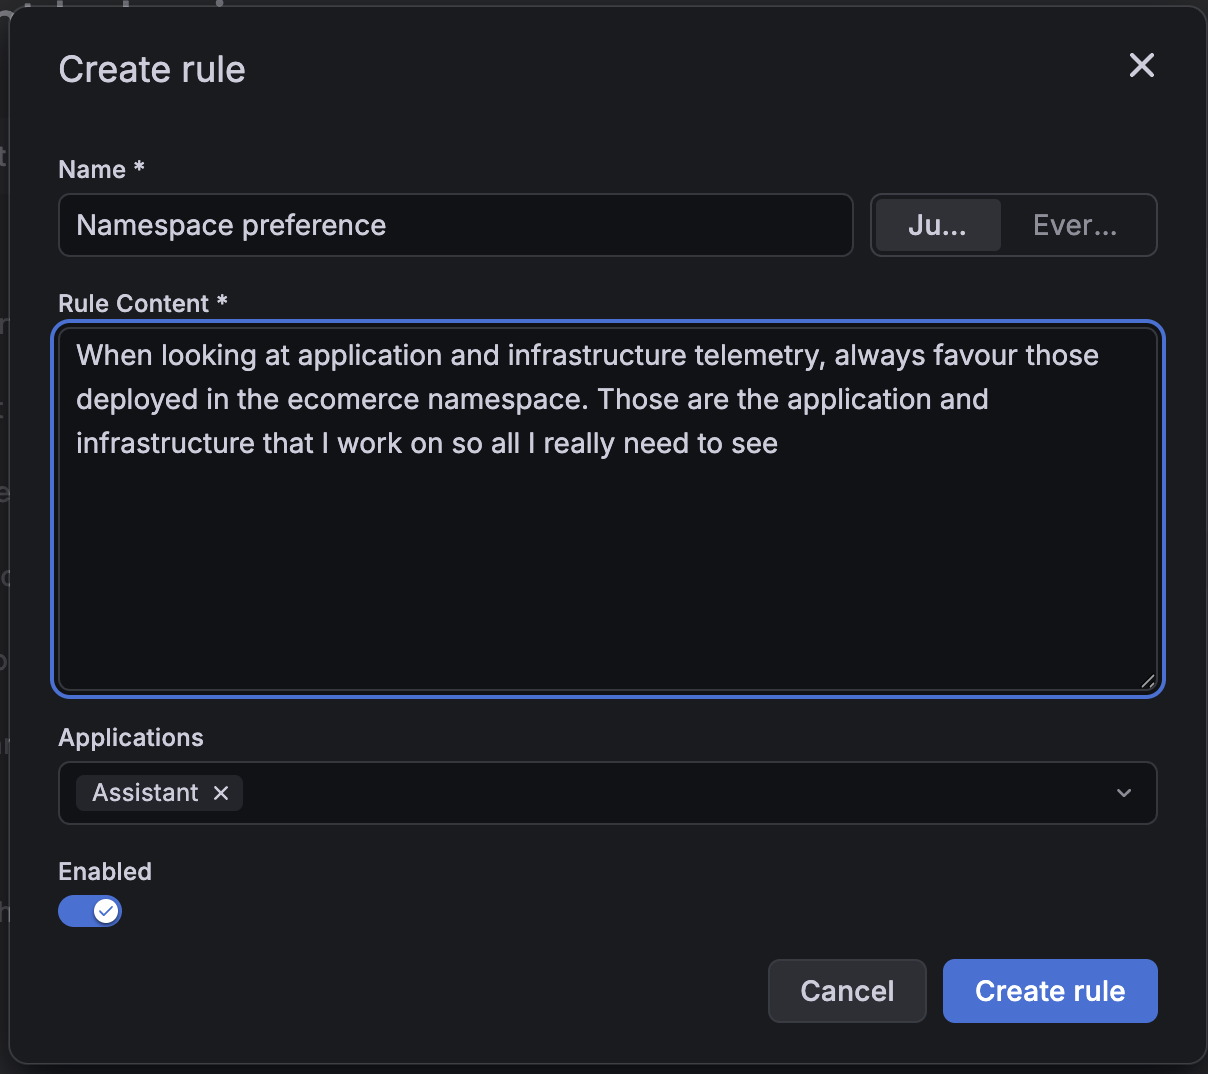
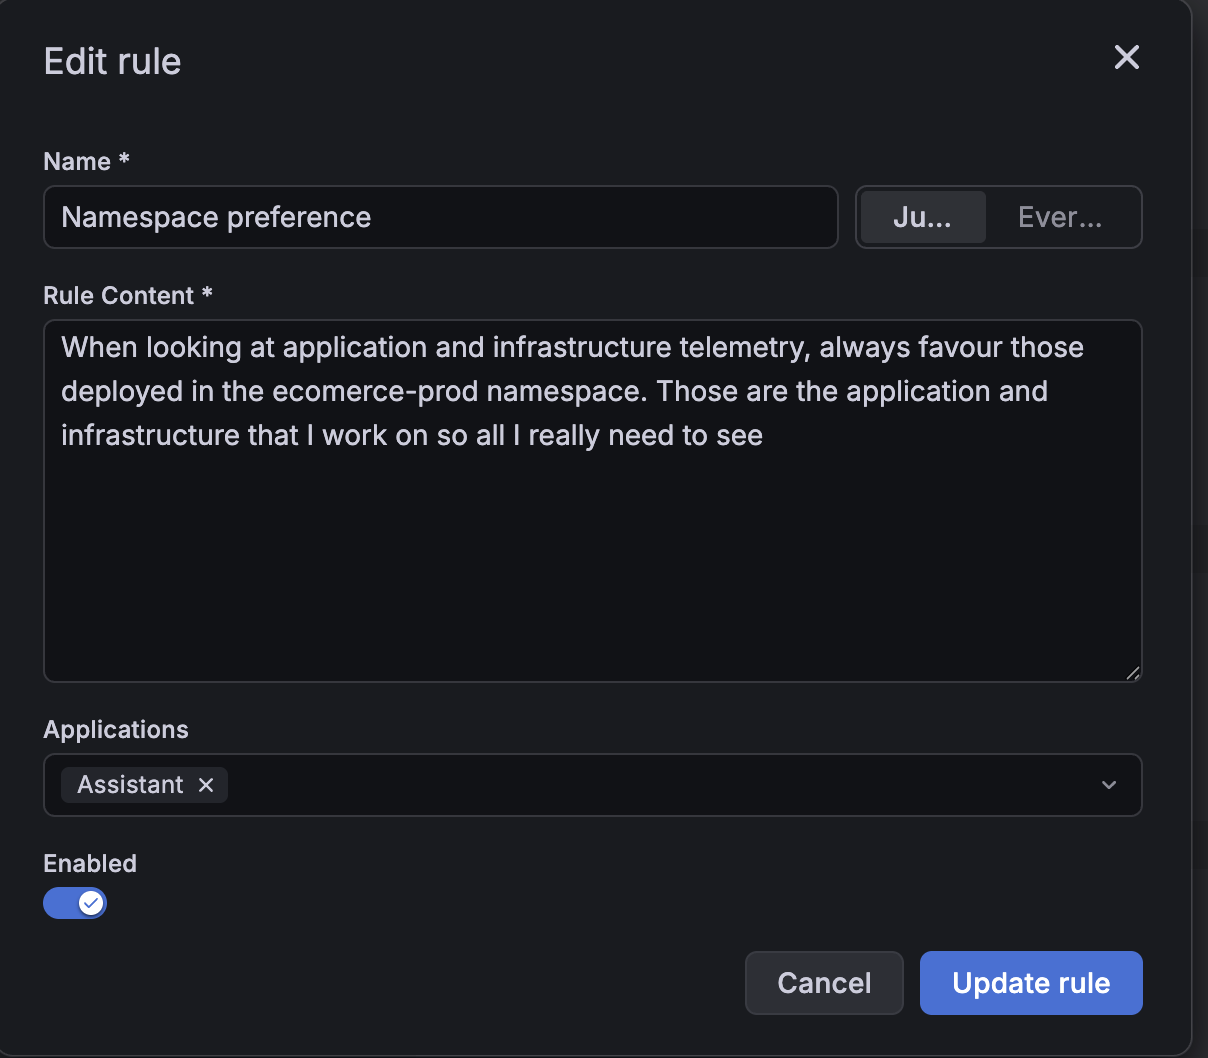
breakout 3

diff --git a/breakout_3_Observability-with-AI/breakout_3_answers/2.4-grafana-assistant.md b/breakout_3_Observability-with-AI/breakout_3_answers/2.4-grafana-assistant.md
@@ -1,6 +1,6 @@
 ## Grafana AI
 Q: What namespace is my app deployed in?
 
-A: Your main application is deployed in the ecommerce namespace
+A: Your main application is deployed in the ecommerce-prod namespace
 
 ![prompt](/images/breakout_3/2.4-grafana-assistant-1.png)
